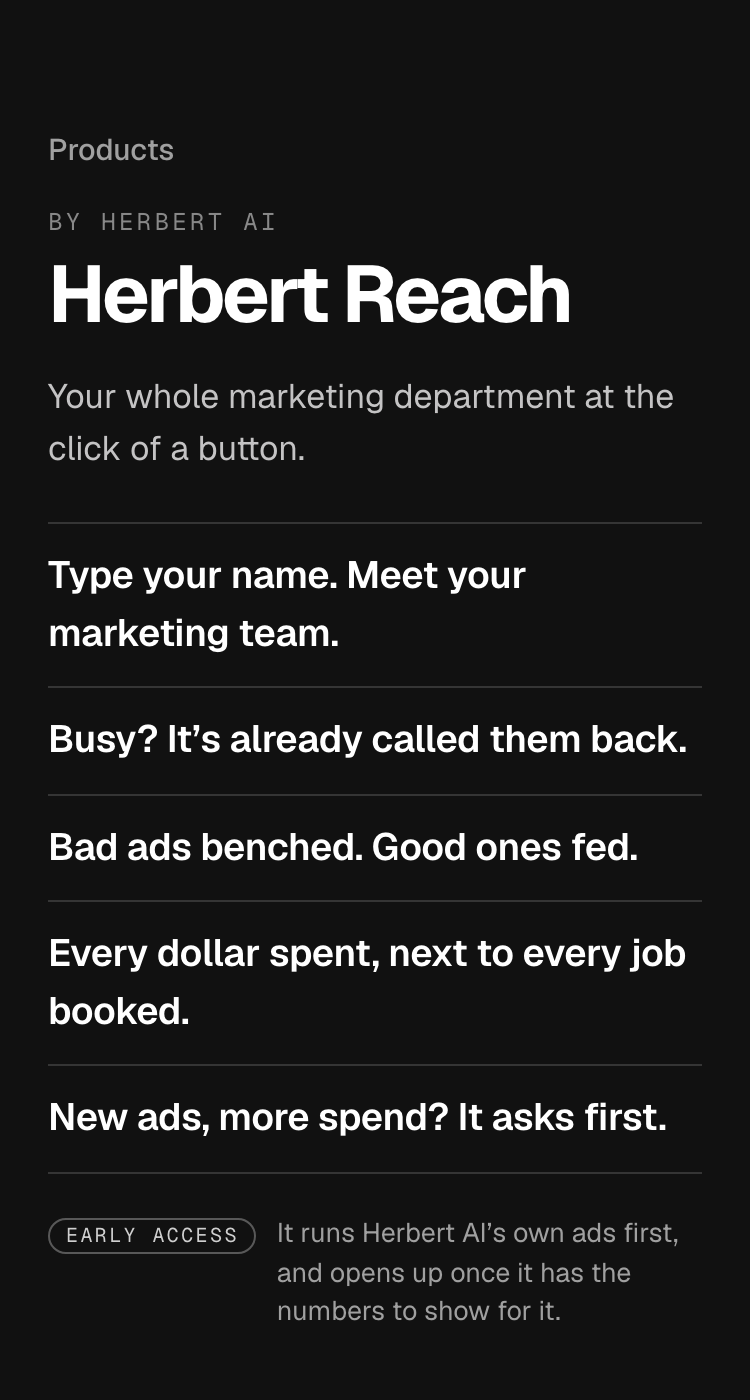
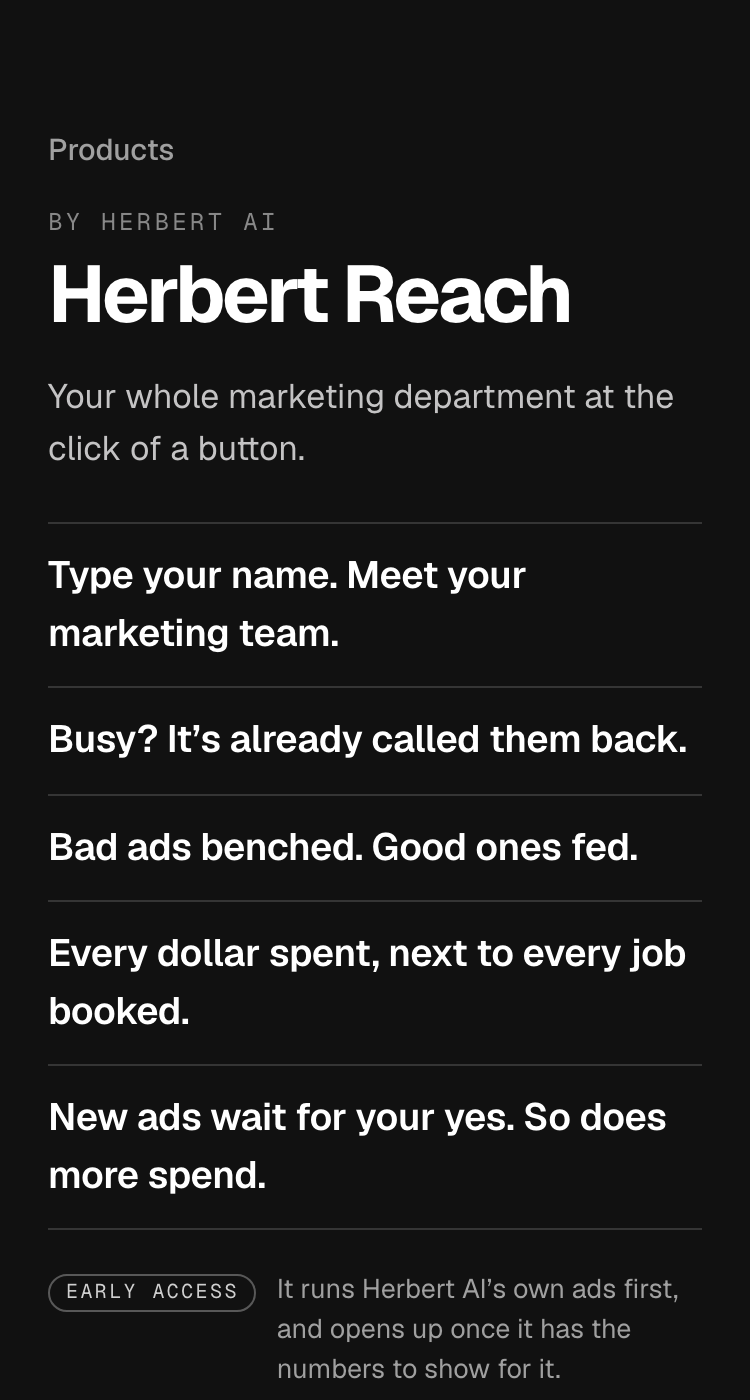
products: round 3 checked against the memorability studies, one question row swapped

Changed region(s): [[0.0613, 0.7679, 0.8893, 0.9521], [0.368, 0.86, 0.8893, 0.9829]]

diff --git a/herbertai-website/docs/design/design-pass-site-2026-10-19-products-line-test.html b/herbertai-website/docs/design/design-pass-site-2026-10-19-products-line-test.html
@@ -4,4 +4,4 @@ section{margin-bottom:44px} .lab{margin-bottom:10px;max-width:1400px} .lab b{fon
 .pair{display:flex;gap:20px;align-items:flex-start} img.wide{display:block;width:1100px;border:1px solid #333} img.phone{display:block;width:280px;border:1px solid #333}
 table{border-collapse:collapse;width:100%;max-width:1420px} td,th{border-top:1px solid #2c2c2c;padding:9px 10px;vertical-align:top;text-align:left} th{color:#888;font-weight:500;font-size:13px}
 td.n{color:#777;width:34px} td.line{font-size:21px;font-weight:600;color:#fff;letter-spacing:-.01em;width:470px} td.s{font-variant-numeric:tabular-nums;width:46px;text-align:center} td.t{color:#aaa;font-size:13.5px} td.tot{font-weight:700;color:#fff}
-.key{color:#999;font-size:13.5px;max-width:1300px;margin:0 0 10px}</style><body><h1>Products: the line test</h1><p class='intro'>Every candidate that passed the gates (true today or flagged, no promised result, no ad platform named), scored and sorted. Mark the numbers that grab you, and the ones that do not; each pick teaches the next round more than another three options would.</p><p class='key'>Scale: 0 to 5, one point each, half for partly. Picture, Prove and Only us are Harry Dry’s three questions (can I picture it, could it be proved wrong, could nobody else say it), which Hopkins, Ogilvy and Julian Shapiro back. Device: one structural move (a pair, a three, a twisted phrase, a mirror, a kicker), from the swipe file, where praised lines stack two moves and flat feature rows carry one or none. Your shape: short, one claim, no qualifier tail, from the lines you picked in the ledger over my recommendations.</p><table><tr><th>#</th><th>Line</th><th>Picture</th><th>Prove</th><th>Only us</th><th>Device</th><th>Your shape</th><th>Total</th><th>Why</th></tr><tr><td class="n">1</td><td class="line">Marketing that picks up the phone.</td><td class="s">1</td><td class="s">1</td><td class="s">1</td><td class="s">1</td><td class="s">1</td><td class="s tot">5.0</td><td class="t">Surprise: marketing does not usually pick up the phone. It calls every new lead inside a minute, which ad tools do not do. Five words.</td></tr><tr><td class="n">2</td><td class="line">Type your name. Meet your marketing team.</td><td class="s">1</td><td class="s">1</td><td class="s">0.5</td><td class="s">1</td><td class="s">1</td><td class="s tot">4.5</td><td class="t">Two beats, a physical first step, pays off your line. True once the researcher is built (it is third in the build order).</td></tr><tr><td class="n">3</td><td class="line">Benches the ads that don’t book jobs.</td><td class="s">1</td><td class="s">1</td><td class="s">0.5</td><td class="s">1</td><td class="s">1</td><td class="s tot">4.5</td><td class="t">A sports verb you can picture; the product as a coach. Today it benches on cost per enquiry, booked jobs come next.</td></tr><tr><td class="n">4</td><td class="line">See what each job cost to win.</td><td class="s">1</td><td class="s">1</td><td class="s">1</td><td class="s">0.5</td><td class="s">1</td><td class="s tot">4.5</td><td class="t">Cost per booked job, said the way an owner thinks about a quote they won. Nobody reporting clicks can say it.</td></tr><tr><td class="n">5</td><td class="line">Never leaves a lead on read.</td><td class="s">1</td><td class="s">1</td><td class="s">0.5</td><td class="s">1</td><td class="s">1</td><td class="s tot">4.5</td><td class="t">Twists “left on read”, the phone screen everyone has seen.</td></tr><tr><td class="n">6</td><td class="line">Busy? It’s already called them back.</td><td class="s">1</td><td class="s">1</td><td class="s">0.5</td><td class="s">1</td><td class="s">1</td><td class="s tot">4.5</td><td class="t">The owner’s moment, then the kicker. The call goes out inside a minute.</td></tr><tr><td class="n">7</td><td class="line">Like an agency, minus the monthly meeting.</td><td class="s">1</td><td class="s">1</td><td class="s">0.5</td><td class="s">1</td><td class="s">1</td><td class="s tot">4.5</td><td class="t">The paradox shape (“like a ___, minus ___”), names the thing owners sit through.</td></tr><tr><td class="n">8</td><td class="line">One name to start. Two things to approve.</td><td class="s">0.5</td><td class="s">1</td><td class="s">1</td><td class="s">1</td><td class="s">1</td><td class="s tot">4.5</td><td class="t">Parallel numbers, both checkable. True once the researcher is built.</td></tr><tr><td class="n">9</td><td class="line">The whole department fits on one screen.</td><td class="s">1</td><td class="s">1</td><td class="s">0.5</td><td class="s">1</td><td class="s">1</td><td class="s tot">4.5</td><td class="t">The “1,000 songs in your pocket” move: something big made small.</td></tr><tr><td class="n">10</td><td class="line">Asks before it spends a cent more.</td><td class="s">0.5</td><td class="s">1</td><td class="s">1</td><td class="s">0.5</td><td class="s">1</td><td class="s tot">4.0</td><td class="t">The approval rule as a character trait: a marketer that does not push spend.</td></tr><tr><td class="n">11</td><td class="line">Every dollar spent, next to every job booked.</td><td class="s">1</td><td class="s">1</td><td class="s">0.5</td><td class="s">1</td><td class="s">0.5</td><td class="s tot">4.0</td><td class="t">A mirrored pair (dollar spent, job booked); a beat longer than your picks run.</td></tr><tr><td class="n">12</td><td class="line">Follows the jobs, not the clicks.</td><td class="s">0.5</td><td class="s">0.5</td><td class="s">1</td><td class="s">1</td><td class="s">1</td><td class="s tot">4.0</td><td class="t">Twists “follow the money”; the budget goes where booked jobs are cheapest.</td></tr><tr><td class="n">13</td><td class="line">Answers leads while you’re on the job.</td><td class="s">1</td><td class="s">1</td><td class="s">0.5</td><td class="s">0.5</td><td class="s">1</td><td class="s tot">4.0</td><td class="t">The owner’s day as the picture; plain.</td></tr><tr><td class="n">14</td><td class="line">Bad ads benched. Good ones fed.</td><td class="s">1</td><td class="s">0.5</td><td class="s">0.5</td><td class="s">1</td><td class="s">1</td><td class="s tot">4.0</td><td class="t">Parallel halves, two verbs you can see. Says less about what “good” means.</td></tr><tr><td class="n">15</td><td class="line">Two approvals. One screen. Every enquiry answered.</td><td class="s">0.5</td><td class="s">1</td><td class="s">1</td><td class="s">1</td><td class="s">0.5</td><td class="s tot">4.0</td><td class="t">A three with numbers; a summary row, long for one line.</td></tr><tr><td class="n">16</td><td class="line">Writes ads. Runs ads. Answers leads. Books jobs.</td><td class="s">0.5</td><td class="s">1</td><td class="s">0.5</td><td class="s">1</td><td class="s">0.5</td><td class="s tot">3.5</td><td class="t">Four verbs in a beat; the whole product, but four claims in one row.</td></tr><tr><td class="n">17</td><td class="line">Judged on booked jobs, not clicks.</td><td class="s">0</td><td class="s">1</td><td class="s">0.5</td><td class="s">1</td><td class="s">1</td><td class="s tot">3.5</td><td class="t">Enemy and contrast; hard to picture.</td></tr><tr><td class="n">18</td><td class="line">Nothing new goes live without your yes.</td><td class="s">0.5</td><td class="s">1</td><td class="s">0.5</td><td class="s">0.5</td><td class="s">1</td><td class="s tot">3.5</td><td class="t">The approval rule, plain.</td></tr><tr><td class="n">19</td><td class="line">Knows your business by name.</td><td class="s">0.5</td><td class="s">0.5</td><td class="s">0.5</td><td class="s">1</td><td class="s">1</td><td class="s tot">3.5</td><td class="t">Twists “knows you by name”. Vague about what it knows.</td></tr><tr><td class="n">20</td><td class="line">Ads in your voice, not a template’s.</td><td class="s">0.5</td><td class="s">0.5</td><td class="s">0.5</td><td class="s">1</td><td class="s">1</td><td class="s tot">3.5</td><td class="t">Contrast; true for ads, not for the follow-up messages.</td></tr><tr><td class="n">21</td><td class="line">Leaves no lead behind.</td><td class="s">0.5</td><td class="s">1</td><td class="s">0</td><td class="s">1</td><td class="s">1</td><td class="s tot">3.5</td><td class="t">Twisted phrase, but any lead tool could sign it.</td></tr><tr><td class="n">22</td><td class="line">You approve two things: new ads, more spend.</td><td class="s">0.5</td><td class="s">1</td><td class="s">1</td><td class="s">0.5</td><td class="s">0.5</td><td class="s tot">3.5</td><td class="t">Exact and unique, reads like terms and conditions.</td></tr><tr><td class="n">23</td><td class="line">Every enquiry answered inside a minute.</td><td class="s">0.5</td><td class="s">1</td><td class="s">0.5</td><td class="s">0</td><td class="s">1</td><td class="s tot">3.0</td><td class="t">True and checkable, no device: the row every speed-to-lead tool writes.</td></tr><tr><td class="n">24</td><td class="line">Your budget follows the cheapest booked job.</td><td class="s">0.5</td><td class="s">1</td><td class="s">1</td><td class="s">0</td><td class="s">0.5</td><td class="s tot">3.0</td><td class="t">The mechanism, plainly; no energy.</td></tr><tr><td class="n">25</td><td class="line">It does the work. You say yes.</td><td class="s">0.5</td><td class="s">0.5</td><td class="s">0</td><td class="s">1</td><td class="s">1</td><td class="s tot">3.0</td><td class="t">Your AI Employees heading’s shape, so it repeats the page.</td></tr><tr><td class="n">26</td><td class="line">Spends like it’s your money. Because it is.</td><td class="s">0.5</td><td class="s">0</td><td class="s">0.5</td><td class="s">1</td><td class="s">1</td><td class="s tot">3.0</td><td class="t">An Apple-style kicker; a character claim nobody can check.</td></tr><tr><td class="n">27</td><td class="line">Stop boosting posts and hoping.</td><td class="s">1</td><td class="s">0</td><td class="s">0</td><td class="s">1</td><td class="s">1</td><td class="s tot">3.0</td><td class="t">Names the owner’s habit; a command, and no proof.</td></tr><tr><td class="n">28</td><td class="line">Learns your business from its name.</td><td class="s">0.5</td><td class="s">1</td><td class="s">0.5</td><td class="s">0</td><td class="s">0.5</td><td class="s tot">2.5</td><td class="t">Round 1. Clear, no device, the qualifier tail flattens it.</td></tr><tr><td class="n">29</td><td class="line">Shows what you spent against the jobs it booked.</td><td class="s">0.5</td><td class="s">1</td><td class="s">0.5</td><td class="s">0</td><td class="s">0</td><td class="s tot">2.0</td><td class="t">Round 1. Accurate and long; the energy is gone.</td></tr><tr><td class="n">30</td><td class="line">Runs your ads and posts, and keeps testing new ones.</td><td class="s">0.5</td><td class="s">0.5</td><td class="s">0</td><td class="s">0</td><td class="s">0</td><td class="s tot">1.0</td><td class="t">Round 2. A list joined by commas; anyone could write it.</td></tr></table></body>
+.key{color:#999;font-size:13.5px;max-width:1300px;margin:0 0 10px}</style><body><h1>Products: the line test</h1><p class='intro'>Every candidate that passed the gates (true today or flagged, no promised result, no ad platform named), scored and sorted. Mark the numbers that grab you, and the ones that do not; each pick teaches the next round more than another three options would.</p><p class='key'>Scale: 0 to 5, one point each, half for partly. Picture, Prove and Only us are Harry Dry’s three questions (can I picture it, could it be proved wrong, could nobody else say it), which Hopkins, Ogilvy and Julian Shapiro back. Device: one structural move (a pair, a three, a twisted phrase, a mirror, a kicker), from the swipe file, where praised lines stack two moves and flat feature rows carry one or none. Your shape: short, one claim, no qualifier tail, from the lines you picked in the ledger over my recommendations. Gates from the memorability studies too: a word you can picture, the first two words carry the row, no hype words, and the line still reads plainly if the pun is missed.</p><table><tr><th>#</th><th>Line</th><th>Picture</th><th>Prove</th><th>Only us</th><th>Device</th><th>Your shape</th><th>Total</th><th>Why</th></tr><tr><td class="n">1</td><td class="line">Marketing that picks up the phone.</td><td class="s">1</td><td class="s">1</td><td class="s">1</td><td class="s">1</td><td class="s">1</td><td class="s tot">5.0</td><td class="t">Surprise: marketing does not usually pick up the phone. It calls every new lead inside a minute, which ad tools do not do. Five words.</td></tr><tr><td class="n">2</td><td class="line">Type your name. Meet your marketing team.</td><td class="s">1</td><td class="s">1</td><td class="s">0.5</td><td class="s">1</td><td class="s">1</td><td class="s tot">4.5</td><td class="t">Two beats, a physical first step, pays off your line. True once the researcher is built (it is third in the build order).</td></tr><tr><td class="n">3</td><td class="line">Benches the ads that don’t book jobs.</td><td class="s">1</td><td class="s">1</td><td class="s">0.5</td><td class="s">1</td><td class="s">1</td><td class="s tot">4.5</td><td class="t">A sports verb you can picture; the product as a coach. Today it benches on cost per enquiry, booked jobs come next.</td></tr><tr><td class="n">4</td><td class="line">See what each job cost to win.</td><td class="s">1</td><td class="s">1</td><td class="s">1</td><td class="s">0.5</td><td class="s">1</td><td class="s tot">4.5</td><td class="t">Cost per booked job, said the way an owner thinks about a quote they won. Nobody reporting clicks can say it.</td></tr><tr><td class="n">5</td><td class="line">Never leaves a lead on read.</td><td class="s">1</td><td class="s">1</td><td class="s">0.5</td><td class="s">1</td><td class="s">1</td><td class="s tot">4.5</td><td class="t">Twists “left on read”, the phone screen everyone has seen.</td></tr><tr><td class="n">6</td><td class="line">Busy? It’s already called them back.</td><td class="s">1</td><td class="s">1</td><td class="s">0.5</td><td class="s">1</td><td class="s">1</td><td class="s tot">4.5</td><td class="t">The owner’s moment, then the kicker. The call goes out inside a minute. A question as a row: the studies lean against it, so it is here to see whether your taste disagrees.</td></tr><tr><td class="n">7</td><td class="line">Like an agency, minus the monthly meeting.</td><td class="s">1</td><td class="s">1</td><td class="s">0.5</td><td class="s">1</td><td class="s">1</td><td class="s tot">4.5</td><td class="t">The paradox shape (“like a ___, minus ___”), names the thing owners sit through.</td></tr><tr><td class="n">8</td><td class="line">One name to start. Two things to approve.</td><td class="s">0.5</td><td class="s">1</td><td class="s">1</td><td class="s">1</td><td class="s">1</td><td class="s tot">4.5</td><td class="t">Parallel numbers, both checkable. True once the researcher is built.</td></tr><tr><td class="n">9</td><td class="line">The whole department fits on one screen.</td><td class="s">1</td><td class="s">1</td><td class="s">0.5</td><td class="s">1</td><td class="s">1</td><td class="s tot">4.5</td><td class="t">The “1,000 songs in your pocket” move: something big made small.</td></tr><tr><td class="n">10</td><td class="line">Asks before it spends a cent more.</td><td class="s">0.5</td><td class="s">1</td><td class="s">1</td><td class="s">0.5</td><td class="s">1</td><td class="s tot">4.0</td><td class="t">The approval rule as a character trait: a marketer that does not push spend.</td></tr><tr><td class="n">11</td><td class="line">Every dollar spent, next to every job booked.</td><td class="s">1</td><td class="s">1</td><td class="s">0.5</td><td class="s">1</td><td class="s">0.5</td><td class="s tot">4.0</td><td class="t">A mirrored pair (dollar spent, job booked); a beat longer than your picks run.</td></tr><tr><td class="n">12</td><td class="line">Follows the jobs, not the clicks.</td><td class="s">0.5</td><td class="s">0.5</td><td class="s">1</td><td class="s">1</td><td class="s">1</td><td class="s tot">4.0</td><td class="t">Twists “follow the money”; the budget goes where booked jobs are cheapest.</td></tr><tr><td class="n">13</td><td class="line">Answers leads while you’re on the job.</td><td class="s">1</td><td class="s">1</td><td class="s">0.5</td><td class="s">0.5</td><td class="s">1</td><td class="s tot">4.0</td><td class="t">The owner’s day as the picture; plain.</td></tr><tr><td class="n">14</td><td class="line">Bad ads benched. Good ones fed.</td><td class="s">1</td><td class="s">0.5</td><td class="s">0.5</td><td class="s">1</td><td class="s">1</td><td class="s tot">4.0</td><td class="t">Parallel halves, two verbs you can see. Says less about what “good” means.</td></tr><tr><td class="n">15</td><td class="line">Two approvals. One screen. Every enquiry answered.</td><td class="s">0.5</td><td class="s">1</td><td class="s">1</td><td class="s">1</td><td class="s">0.5</td><td class="s tot">4.0</td><td class="t">A three with numbers; a summary row, long for one line.</td></tr><tr><td class="n">16</td><td class="line">New ads wait for your yes. So does more spend.</td><td class="s">0.5</td><td class="s">1</td><td class="s">0.5</td><td class="s">1</td><td class="s">1</td><td class="s tot">4.0</td><td class="t">The approval rule as a fact and a two-word kicker, the Apple shape. No question.</td></tr><tr><td class="n">17</td><td class="line">Writes ads. Runs ads. Answers leads. Books jobs.</td><td class="s">0.5</td><td class="s">1</td><td class="s">0.5</td><td class="s">1</td><td class="s">0.5</td><td class="s tot">3.5</td><td class="t">Four verbs in a beat; the whole product, but four claims in one row.</td></tr><tr><td class="n">18</td><td class="line">Judged on booked jobs, not clicks.</td><td class="s">0</td><td class="s">1</td><td class="s">0.5</td><td class="s">1</td><td class="s">1</td><td class="s tot">3.5</td><td class="t">Enemy and contrast; hard to picture.</td></tr><tr><td class="n">19</td><td class="line">Nothing new goes live without your yes.</td><td class="s">0.5</td><td class="s">1</td><td class="s">0.5</td><td class="s">0.5</td><td class="s">1</td><td class="s tot">3.5</td><td class="t">The approval rule, plain.</td></tr><tr><td class="n">20</td><td class="line">Knows your business by name.</td><td class="s">0.5</td><td class="s">0.5</td><td class="s">0.5</td><td class="s">1</td><td class="s">1</td><td class="s tot">3.5</td><td class="t">Twists “knows you by name”. Vague about what it knows.</td></tr><tr><td class="n">21</td><td class="line">Ads in your voice, not a template’s.</td><td class="s">0.5</td><td class="s">0.5</td><td class="s">0.5</td><td class="s">1</td><td class="s">1</td><td class="s tot">3.5</td><td class="t">Contrast; true for ads, not for the follow-up messages.</td></tr><tr><td class="n">22</td><td class="line">Leaves no lead behind.</td><td class="s">0.5</td><td class="s">1</td><td class="s">0</td><td class="s">1</td><td class="s">1</td><td class="s tot">3.5</td><td class="t">Twisted phrase, but any lead tool could sign it.</td></tr><tr><td class="n">23</td><td class="line">You approve two things: new ads, more spend.</td><td class="s">0.5</td><td class="s">1</td><td class="s">1</td><td class="s">0.5</td><td class="s">0.5</td><td class="s tot">3.5</td><td class="t">Exact and unique, reads like terms and conditions.</td></tr><tr><td class="n">24</td><td class="line">Every enquiry answered inside a minute.</td><td class="s">0.5</td><td class="s">1</td><td class="s">0.5</td><td class="s">0</td><td class="s">1</td><td class="s tot">3.0</td><td class="t">True and checkable, no device: the row every speed-to-lead tool writes.</td></tr><tr><td class="n">25</td><td class="line">Your budget follows the cheapest booked job.</td><td class="s">0.5</td><td class="s">1</td><td class="s">1</td><td class="s">0</td><td class="s">0.5</td><td class="s tot">3.0</td><td class="t">The mechanism, plainly; no energy.</td></tr><tr><td class="n">26</td><td class="line">It does the work. You say yes.</td><td class="s">0.5</td><td class="s">0.5</td><td class="s">0</td><td class="s">1</td><td class="s">1</td><td class="s tot">3.0</td><td class="t">Your AI Employees heading’s shape, so it repeats the page.</td></tr><tr><td class="n">27</td><td class="line">Spends like it’s your money. Because it is.</td><td class="s">0.5</td><td class="s">0</td><td class="s">0.5</td><td class="s">1</td><td class="s">1</td><td class="s tot">3.0</td><td class="t">An Apple-style kicker; a character claim nobody can check.</td></tr><tr><td class="n">28</td><td class="line">Stop boosting posts and hoping.</td><td class="s">1</td><td class="s">0</td><td class="s">0</td><td class="s">1</td><td class="s">1</td><td class="s tot">3.0</td><td class="t">Names the owner’s habit; a command, and no proof.</td></tr><tr><td class="n">29</td><td class="line">Learns your business from its name.</td><td class="s">0.5</td><td class="s">1</td><td class="s">0.5</td><td class="s">0</td><td class="s">0.5</td><td class="s tot">2.5</td><td class="t">Round 1. Clear, no device, the qualifier tail flattens it.</td></tr><tr><td class="n">30</td><td class="line">Shows what you spent against the jobs it booked.</td><td class="s">0.5</td><td class="s">1</td><td class="s">0.5</td><td class="s">0</td><td class="s">0</td><td class="s tot">2.0</td><td class="t">Round 1. Accurate and long; the energy is gone.</td></tr><tr><td class="n">31</td><td class="line">Runs your ads and posts, and keeps testing new ones.</td><td class="s">0.5</td><td class="s">0.5</td><td class="s">0</td><td class="s">0</td><td class="s">0</td><td class="s tot">1.0</td><td class="t">Round 2. A list joined by commas; anyone could write it.</td></tr></table></body>

diff --git a/herbertai-website/docs/design/design-pass-site-2026-10-19-products-facts-r3.html b/herbertai-website/docs/design/design-pass-site-2026-10-19-products-facts-r3.html
@@ -4,4 +4,4 @@ section{margin-bottom:44px} .lab{margin-bottom:10px;max-width:1400px} .lab b{fon
 .pair{display:flex;gap:20px;align-items:flex-start} img.wide{display:block;width:1100px;border:1px solid #333} img.phone{display:block;width:280px;border:1px solid #333}
 table{border-collapse:collapse;width:100%;max-width:1420px} td,th{border-top:1px solid #2c2c2c;padding:9px 10px;vertical-align:top;text-align:left} th{color:#888;font-weight:500;font-size:13px}
 td.n{color:#777;width:34px} td.line{font-size:21px;font-weight:600;color:#fff;letter-spacing:-.01em;width:470px} td.s{font-variant-numeric:tabular-nums;width:46px;text-align:center} td.t{color:#aaa;font-size:13.5px} td.tot{font-weight:700;color:#fff}
-.key{color:#999;font-size:13.5px;max-width:1300px;margin:0 0 10px}</style><body><h1>Products: the facts, round 3</h1><p class='intro'>Detail 2 of 6, round 3. Written by the catchy-copy method: about 35 lines drafted, the ones below scored, the best drawn as three lists on the band. Your line stays. Every list keeps the approval rule, names no ad platform (Meta is still waiting on app review) and promises no results.</p><section><div class="lab"><b>1. One-liners</b><span>The five best-scoring lines that each say a different thing, one device each, set bigger and white so each row reads as a line, not a fact. The dashboard beside them is the proof. Recommended.</span></div><div class="pair"><img class="wide" src="assets-2026-10-19/products-facts-r3-a-laptop.png"><img class="phone" src="assets-2026-10-19/products-facts-r3-a-phone.png"></div></section><section><div class="lab"><b>2. Heading and proof</b><span>The shape the best product lists use (Raycast, Granola, Lindy): a short heading carries the hook, one plain sentence carries the proof. Most convincing, tallest.</span></div><div class="pair"><img class="wide" src="assets-2026-10-19/products-facts-r3-b-laptop.png"><img class="phone" src="assets-2026-10-19/products-facts-r3-b-phone.png"></div></section><section><div class="lab"><b>3. Two beats</b><span>Every row in two halves, the shape of the lines you picked: “They do the job. Your team says yes.” and “Less admin. More money.” Most rhythm, least proof.</span></div><div class="pair"><img class="wide" src="assets-2026-10-19/products-facts-r3-c-laptop.png"><img class="phone" src="assets-2026-10-19/products-facts-r3-c-phone.png"></div></section></body>
+.key{color:#999;font-size:13.5px;max-width:1300px;margin:0 0 10px}</style><body><h1>Products: the facts, round 3</h1><p class='intro'>Detail 2 of 6, round 3. Written by the catchy-copy method: about 35 lines drafted, 31 survived the gates, the ones below scored, the best drawn as three lists on the band. Your line stays. Every list keeps the approval rule, names no ad platform (Meta is still waiting on app review) and promises no results.</p><section><div class="lab"><b>1. One-liners</b><span>The five best-scoring lines that each say a different thing, one device each, set bigger and white so each row reads as a line, not a fact. The dashboard beside them is the proof. Recommended.</span></div><div class="pair"><img class="wide" src="assets-2026-10-19/products-facts-r3-a-laptop.png"><img class="phone" src="assets-2026-10-19/products-facts-r3-a-phone.png"></div></section><section><div class="lab"><b>2. Heading and proof</b><span>The shape the best product lists use (Raycast, Granola, Lindy): a short heading carries the hook, one plain sentence carries the proof. Most convincing, tallest.</span></div><div class="pair"><img class="wide" src="assets-2026-10-19/products-facts-r3-b-laptop.png"><img class="phone" src="assets-2026-10-19/products-facts-r3-b-phone.png"></div></section><section><div class="lab"><b>3. Two beats</b><span>Every row in two halves, the shape of the lines you picked: “They do the job. Your team says yes.” and “Less admin. More money.” Most rhythm, least proof.</span></div><div class="pair"><img class="wide" src="assets-2026-10-19/products-facts-r3-c-laptop.png"><img class="phone" src="assets-2026-10-19/products-facts-r3-c-phone.png"></div></section></body>

diff --git a/herbertai-website/docs/design/design-pass-site-2026-09.md b/herbertai-website/docs/design/design-pass-site-2026-09.md
@@ -1695,7 +1695,7 @@ that don’t pay.", "Asks before it spends a cent more.", each with one plain
 sentence under it. 3 Two beats, the shape of Will's own picks: "Type your
 name. Meet your marketing team.", "Busy? It’s already called them back.", "Bad
 ads benched. Good ones fed.", "Every dollar spent, next to every job
-booked.", "New ads, more spend? It asks first." Claims to clear in phase 6:
+booked.", "New ads wait for your yes. So does more spend." (a question row swapped out after the memorability studies leaned against questions as rows; "Busy?" stays, flagged, to test Will’s taste against them). Claims to clear in phase 6:
 the start rows are true once the researcher is built (third in the build
 order), and the optimiser benches on cost per enquiry until booked-job
 feedback is built. Awaiting Will’s marks and pick.
